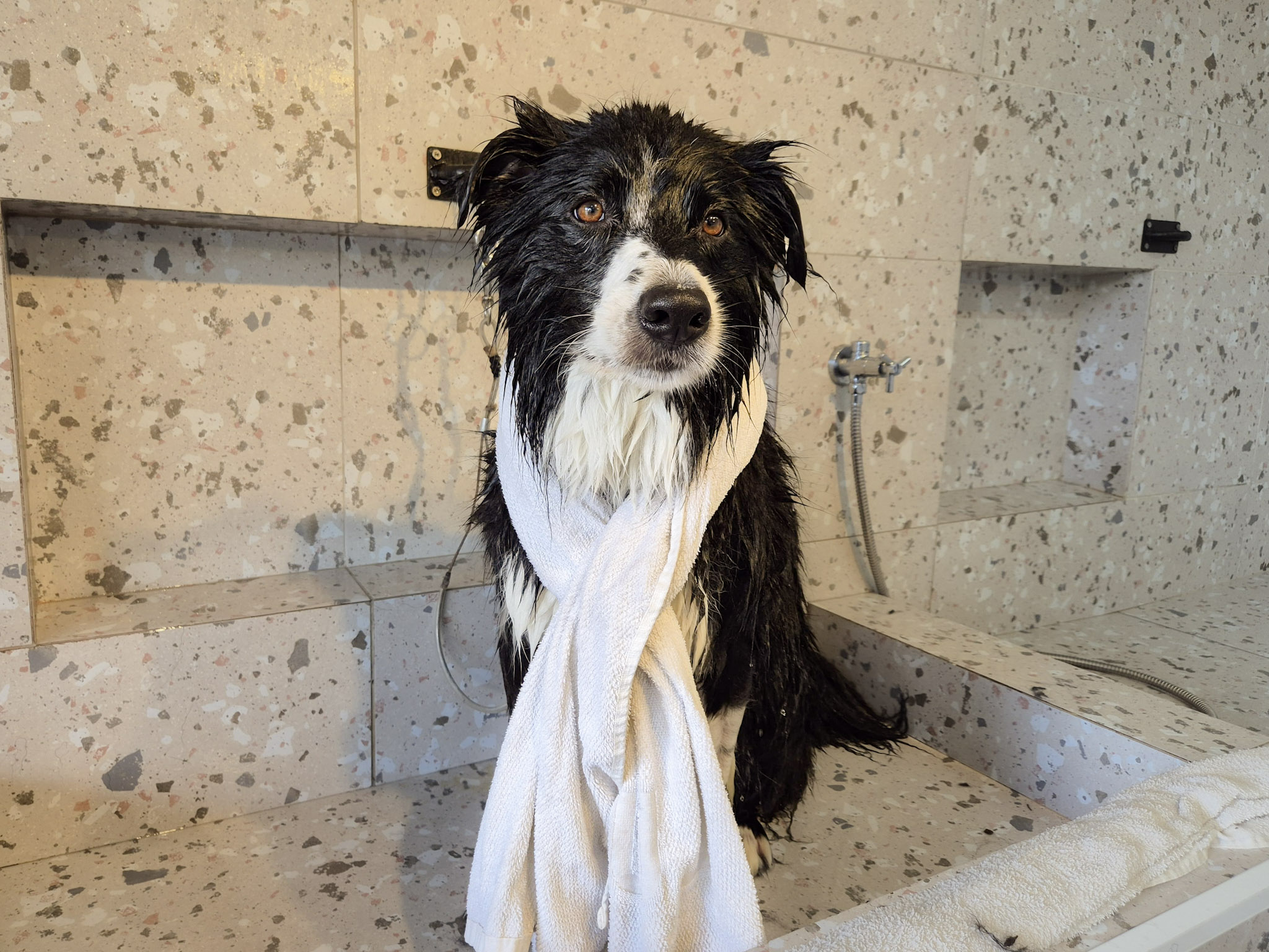
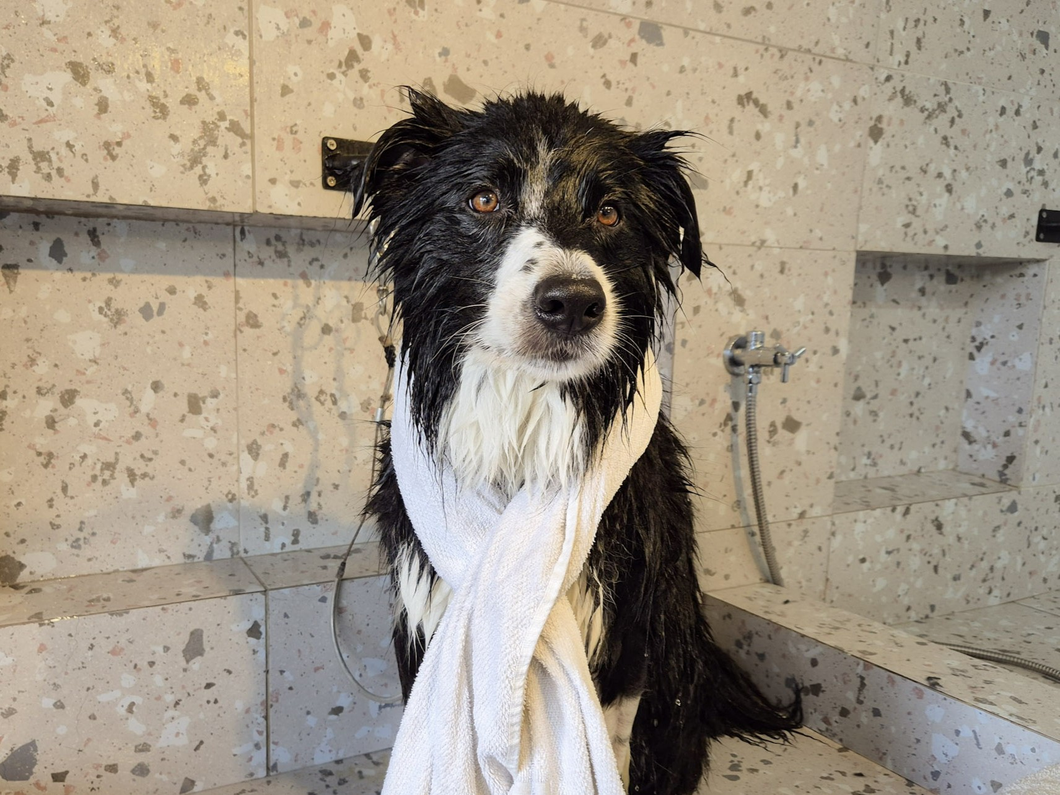
bbbb
bbb

diff --git a/public/js/carousel.js b/public/js/carousel.js
@@ -1,28 +1,34 @@
 fetch('/public/data/banhoetosa.json')
   .then(res => res.json())
   .then(data => {
-    const inner = document.querySelector('#depoimentosCarousel .carousel-inner');
+    const carousel = document.getElementById('carousel3D');
+    if (!carousel) return console.error("#carousel3D não encontrado");
 
-    data.depoimentos.forEach((dep, i) => {
-      const item = document.createElement('div');
-      item.classList.add('carousel-item');
-      if (i === 0) item.classList.add('active');
-
-      item.innerHTML = `
-        <div class="depo-carousel-card mx-auto">
-          <h4>${dep.nome}</h4>
-          <p>${dep.texto}</p>
-          ${dep.descr ? `<p>${dep.descr}</p>` : ''}
-        </div>
-      `;
-
-      inner.appendChild(item);
+    const imgs = data.imagens.map(imgData => {
+      const img = document.createElement('img');
+      img.src = imgData.src;
+      img.alt = imgData.alt || '';
+      carousel.appendChild(img);
+      return img;
     });
 
-    new bootstrap.Carousel('#depoimentosCarousel', {
-      interval: 4000,
-      ride: 'carousel',
-      wrap: true
-    });
+    if (!imgs.length) return;
+
+    let current = 0;
+
+    function atualizarClasses() {
+      const total = imgs.length;
+      imgs.forEach(img => img.className = ''); // remove todas classes
+      imgs[current].classList.add('center');
+      if (total > 1) imgs[(current + 1) % total].classList.add('right');
+      if (total > 2) imgs[(current - 1 + total) % total].classList.add('left');
+    }
+
+    atualizarClasses(); // primeira renderização
+
+    setInterval(() => {
+      current = (current + 1) % imgs.length;
+      atualizarClasses();
+    }, 3000);
   })
-  .catch(err => console.error('Erro ao carregar depoimentos:', err));
+  .catch(err => console.error('Erro ao carregar imagens:', err));

diff --git a/public/css/estilo.css b/public/css/estilo.css
@@ -777,12 +777,12 @@ h1 {
 }
 
 .secao1-bt {
-  background-image: url("../img/pexels-chevanon-1108099.jpg");
+  background-image: url("../img/fotos-oficiais/bt-capa.png");
   background-repeat: no-repeat;
-  background-position: center top;
+  background-position: center right;
   background-size: cover;
   background-attachment: fixed;
-  padding: 100px 20px;
+  padding: 130px 20px;
   color: white;
   text-align: center;
 }
@@ -797,6 +797,8 @@ h1 {
 .secao1-bt p {
   max-width: 600px;
   margin: 0px auto;
+  font-weight: 500;
+  font-size: large;
 }
 
 .secao2-bt {
@@ -857,7 +859,8 @@ h1 {
   border-radius: 15px;
   object-fit: cover;
   transition: all 0.8s ease;
-  box-shadow: 0 10px 20px rgba(0, 0, 0, 0.4);
+  box-shadow: 0 10px 20px rgba(0,0,0,0.4);
+  opacity: 0;
 }
 
 .carousel-3d img.left {
@@ -868,7 +871,7 @@ h1 {
 }
 
 .carousel-3d img.center {
-  transform: translateX(0) scale(1) rotateY(0);
+  transform: translateX(0) scale(1) rotateY(0deg);
   filter: blur(0);
   opacity: 1;
   z-index: 3;
